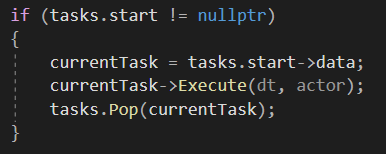
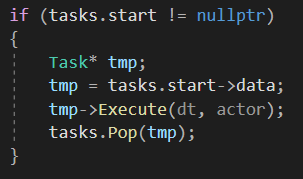
new images + webpage updated

diff --git a/docs/index.html b/docs/index.html
@@ -142,7 +142,6 @@
 								<p><br /></p>
 
 								<h3>When we are done with that, in the Update method from the gameplay scene, we will need to create a temporal task to store the last task requested and add it to a queue.<br /> 
-								Before, we told the function <code>HandleInput()</code> from the player to return a task when a key is pressed, so we need to add that task into the task manager.
 								</h3>
 								<img src="images/tmp_task.png"/>
 								<p><br /></p>

diff --git a/Game/Source/TaskManager.cpp b/Game/Source/TaskManager.cpp
@@ -25,15 +25,12 @@ bool TaskManager::Start()
 
 bool TaskManager::Update(float dt, Entity* actor)
 {
-	// TODO 2: Check if the list is empty and pop a task
 	if (tasks.start != nullptr)
 	{
 		Task* tmp;
 		tmp = tasks.start->data;
 		tmp->Execute(dt, actor);
 		tasks.Pop(tmp);
-		
-		// Ejecutar dos tasks en vez de una solo?
 	}
 	
 	return true;
